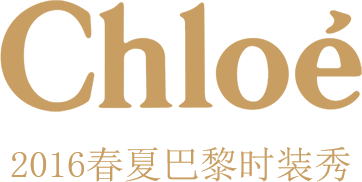
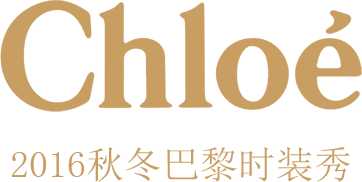
no message

Changed region(s): [[0.2431, 0.7967, 0.4558, 1.0]]

diff --git a/fws3/js/wechat.js b/fws3/js/wechat.js
@@ -1,8 +1,8 @@
 var shareData = {
-    "title": "Chloé 2016 春夏时装秀",
+    "title": "Chloé 2016 秋冬时装秀",
     "link": window.location.href,
     "imgUrl": "http://chloewechat.samesamechina.com/cw/images/share.jpg",
-    "desc": "Chloé 2016 春夏巴黎时装周，发现秀场精彩"
+    "desc": "Chloé 2016 秋冬巴黎时装周，发现秀场精彩"
 }
 
 

diff --git a/protected/views/site/form.php b/protected/views/site/form.php
@@ -1,0 +1,156 @@
+<script type="text/javascript" src="<?php echo Yii::app()->request->baseUrl; ?>/fws3/js/toucher.js"></script>
+
+<div id="loading">
+	<div class="loading-logo">
+		<div class="loading-mask"></div>
+	</div>
+</div>
+
+
+<div class="homepage" id="touchBox">
+
+<div class="videoFrame">
+    <div id="mod_player"></div>
+</div>
+
+
+<div href="javascript:;" class="logo">
+		<img src="<?php echo Yii::app()->request->baseUrl; ?>/fws3/img/logo.png" width="100%" />
+</div>
+
+<div class="slogan">
+    距离 Chloé 2016 秋冬巴黎时装秀<br />开幕还有 <em>3</em> 天
+</div>
+
+<div class="sliderCon">
+
+    <!-- Swiper -->
+    <div class="swiper-container">
+        <div class="swiper-wrapper">
+
+            <div class="swiper-slide">
+                <a href="javascript:;" class="playBtn"></a>
+                <img src="<?php echo Yii::app()->request->baseUrl; ?>/fws3/img/poster.jpg" width="100%" />
+            </div>
+
+            <div class="swiper-slide">
+                <img src="<?php echo Yii::app()->request->baseUrl; ?>/fws3/img/slider_3_1.jpg" width="100%" />
+            </div>
+
+        </div>
+
+    </div>
+
+    <!-- Add Arrows -->
+    <div class="swiper-button-next"></div>
+    <div class="swiper-button-prev"></div>
+
+</div>
+
+<p class="slider_tis">
+    左右滑动查看高圆圆最新照片
+</p>
+
+
+</div>
+
+<!-- <div class="sliderArr">
+    <img src="<?php echo Yii::app()->request->baseUrl; ?>/fws3/img/sliderArr.png" width="100%" />
+</div> -->
+
+<!-- Initialize Swiper -->
+<script>
+    var swiper = new Swiper('.swiper-container', {
+        pagination: '.swiper-pagination',
+        nextButton: '.swiper-button-next',
+        prevButton: '.swiper-button-prev',
+        slidesPerView: 1,
+        paginationClickable: true,
+        //loop: true
+    });
+</script>
+
+
+<script src="http://imgcache.gtimg.cn/tencentvideo_v1/tvp/js/tvp.player_v2.js"></script>
+
+
+<script type="text/javascript">
+    ;(function($){
+        $(function(){
+
+            var vidArr = ["j0186t7y55y"];
+            var vPic = ["../fws3/img/poster.jpg"]
+
+    		var player;
+    		var videoWidth = document.body.clientWidth;
+    		var videoHeight = videoWidth * (1080 / 1920);
+
+    		$(".video").css({"height":videoHeight});
+
+    		var videoFun = function(n){
+    			var video = new tvp.VideoInfo();
+    			video.setVid(vidArr[n]);
+    			player = new tvp.Player();
+    			player.create({
+    				width: videoWidth + 'px',
+    				height: videoHeight + 'px',
+    				video: video,
+    				pic: vPic[n],
+    				modId:"mod_player", //mod_player是刚刚在页面添加的div容器 autoplay:true
+    				onallended: function () {
+                        //播放器播放完毕时
+                        $(".videoFrame").hide();
+                        videoFun("0");
+                    },
+                    onpause: function () {
+                        //播放器触发暂停时，目前只针对HTML5播放器有效
+                        $(".videoFrame").hide();
+                        videoFun("0");
+                    },
+    			});
+
+    		}
+
+            videoFun(0);
+
+            $(".playBtn").click(function(){
+                $(".videoFrame").show();
+                player.enterFullScreen();
+                player.play();
+            })
+
+            $(".videoFrame").click(function(){
+                $(".videoFrame").hide();
+                videoFun("0");
+            })
+
+
+     	})
+
+
+
+//    var myTouch = util.toucher(document.getElementById('touchBox')),cDay;
+//    myTouch.on('swipeUp',function(){
+//        cDay = $(".slogan em").html();
+//
+//        if(cDay == 3 || cDay == 2){
+//            $(".slogan em").html(parseInt(cDay)-1);
+//        }
+//
+//    })
+//
+//    myTouch.on('swipeDown',function(){
+//        cDay = $(".slogan em").html();
+//
+//        if(cDay == 2 || cDay == 1){
+//            $(".slogan em").html(parseInt(cDay)+1);
+//        }
+//
+//    })
+
+    })(jQuery)
+
+</script>
+
+
+
